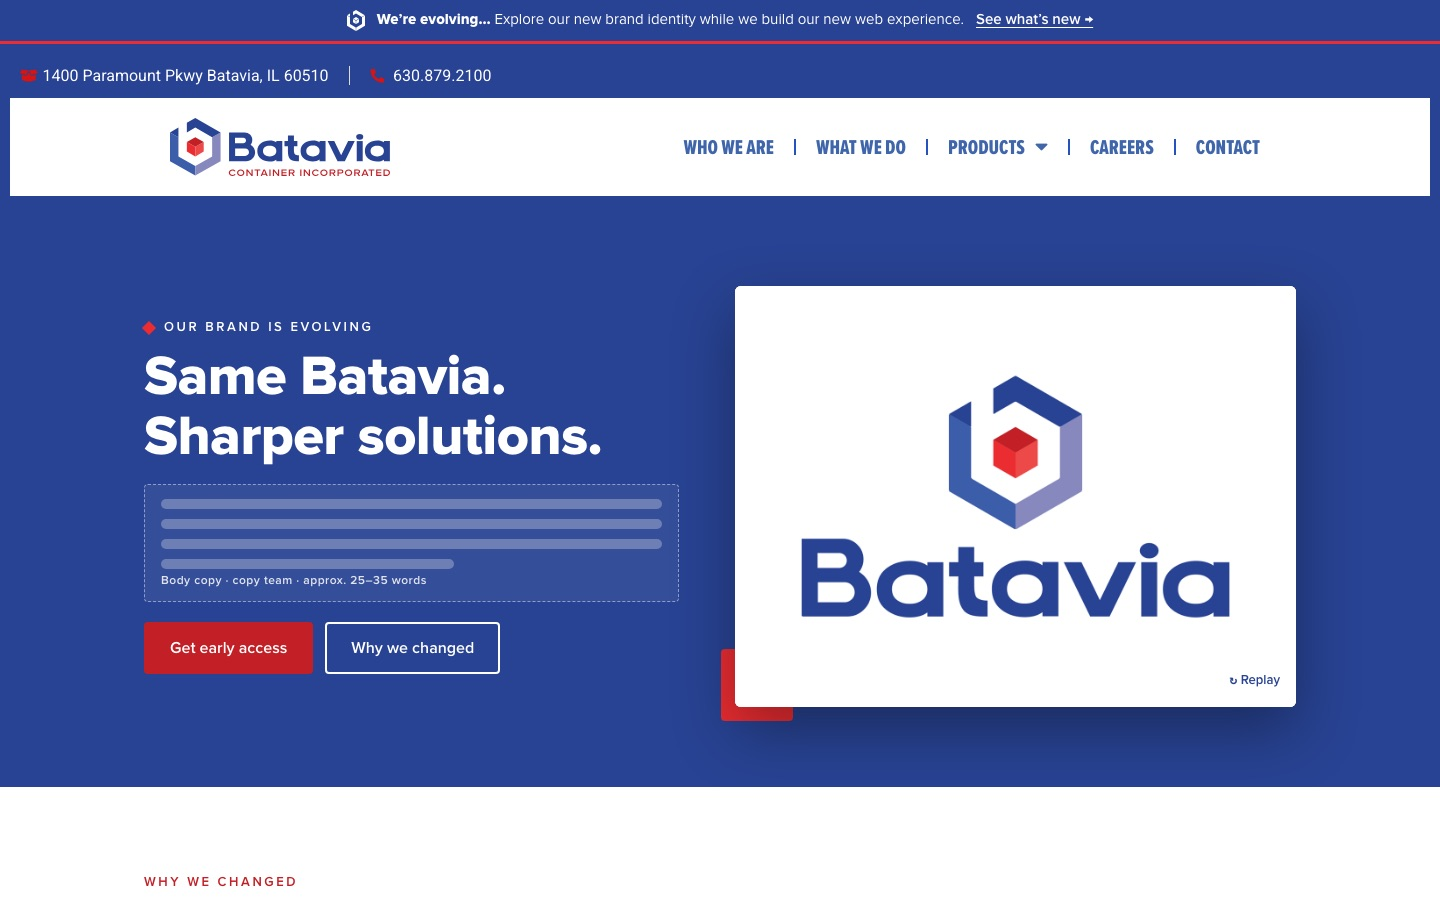
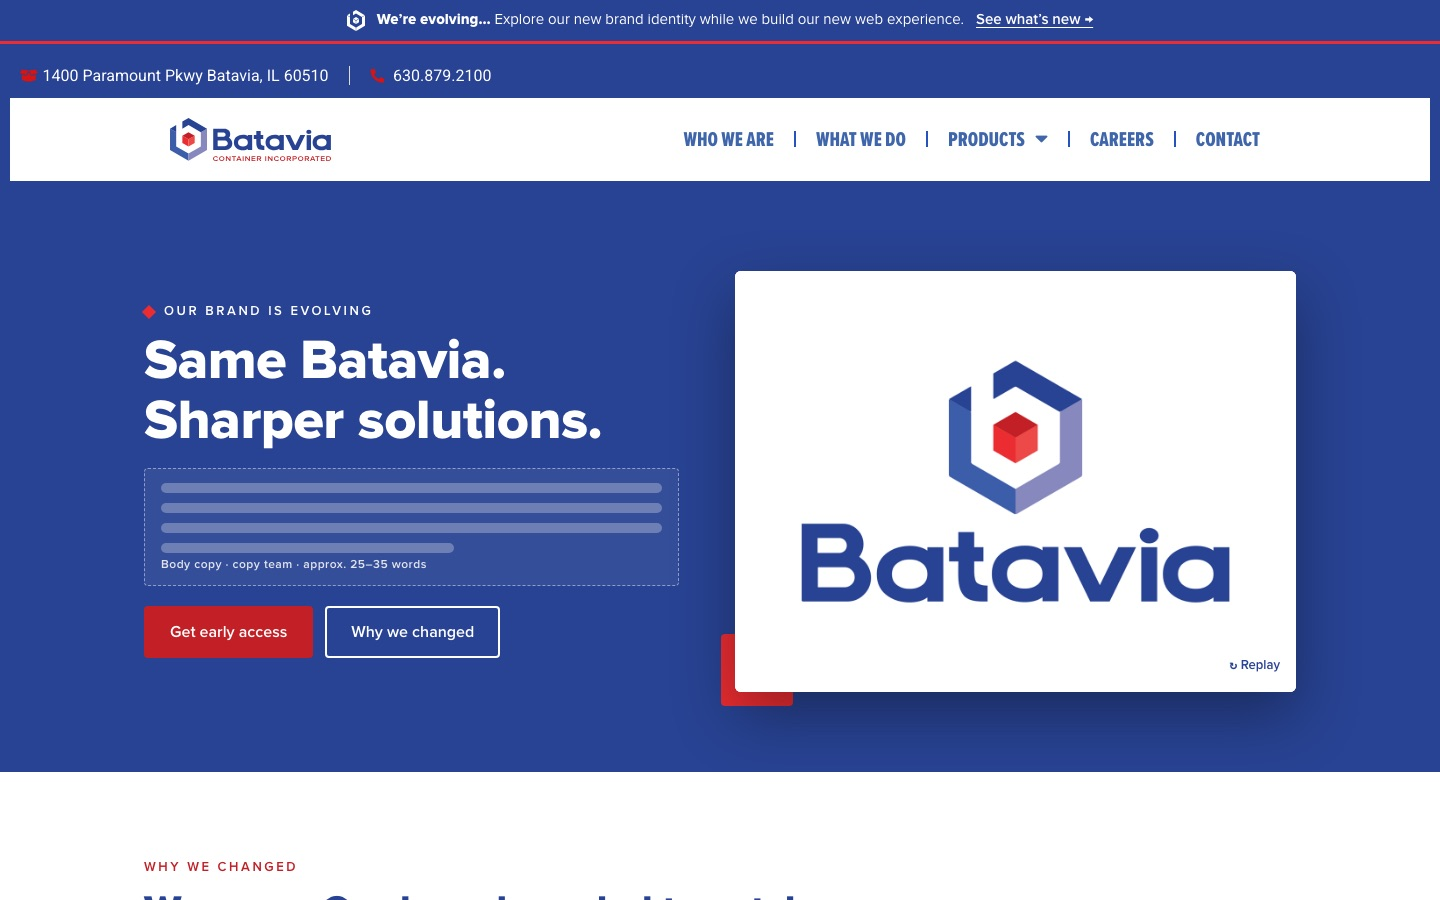
Update review mockups

diff --git a/live/homepage-popup.css b/live/homepage-popup.css
@@ -102,3 +102,24 @@ html.p1-pop-lock { overflow: hidden; }
   .p1-pop__ctas .btn { padding: 12px 16px; min-height: 44px; }
   .p1-pop__later { align-self: center; margin-top: 0; }
 }
+
+/* ---- Phone polish (Nov 2): grab handle instead of the red rule, stronger dim, uncropped logo video ---- */
+@media (max-width: 567px), (max-width: 767px) and (min-height: 521px) {
+  .p1-pop__scrim { background: rgba(14, 22, 54, .62); }
+  .p1-pop__card { border-top: 0; border-radius: 18px 18px 0 0; padding-top: 14px; }
+  .p1-pop__card::before { content: ""; position: absolute; top: 8px; left: 50%; width: 40px; height: 4px; margin-left: -20px; border-radius: 2px; background: #D0D0D0; }
+  .p1-pop__x { top: 10px; right: 8px; }
+  .p1-pop__stage { padding: 6px 0 0; }
+  .p1-pop .morph--video { height: min(25vh, 210px); height: min(25dvh, 210px); width: auto; aspect-ratio: 4/3; margin: 0 auto; }
+  .p1-pop__body h2 { margin: 4px 0 14px; }
+}
+@media (max-width: 567px), (max-width: 767px) and (min-height: 521px) {
+  /* trim the video's 1.5X clear space to the brand-guide minimum of 1X (X = cube width) to save height on phones */
+  .p1-pop .morph--video { height: auto; width: min(76vw, 300px); aspect-ratio: 1600 / 943; }
+  .p1-pop__stage { padding-top: 2px; }
+}
+
+/* No accent rule on the card; the × uses Batavia Red 1 (#C22026, 6:1 on white) */
+.p1-pop__card { border-top: 0; }
+.p1-pop__x { color: var(--red-1); background: rgba(255,255,255,.9); }
+.p1-pop__x:hover, .p1-pop__x:focus-visible { color: #fff; background: var(--red-1); }

diff --git a/live/homepage-option2.html b/live/homepage-option2.html
@@ -760,6 +760,19 @@ var e="script#wp-emoji-settings",t=document.querySelector(e);if(!(t instanceof H
 //# sourceURL=https://www.bataviacontainer.com/wp-includes/js/wp-emoji-loader.min.js
 </script>
 
+<script>
+(function () {
+  function fit() {
+    var hd = document.querySelector('header[data-elementor-type="header"]');
+    var first = document.querySelector('[data-elementor-type="wp-page"] > section');
+    if (!hd || !first) return;
+    first.style.marginTop = '';
+    var below = first.getBoundingClientRect().top - hd.getBoundingClientRect().top;   // > 0 means white shows
+    if (below > 0) first.style.marginTop = (parseFloat(getComputedStyle(first).marginTop) - below) + 'px';
+  }
+  window.addEventListener('load', fit); window.addEventListener('resize', fit);
+})();
+</script>
 <div class="be-page p1-pop" id="p1Pop" hidden>
   <div class="p1-pop__scrim" data-close></div>
   <div class="p1-pop__card" role="dialog" aria-modal="true" aria-labelledby="p1PopTitle">

diff --git a/live/brand-evolution.html b/live/brand-evolution.html
@@ -628,5 +628,18 @@ var e="script#wp-emoji-settings",t=document.querySelector(e);if(!(t instanceof H
 //# sourceURL=https://www.bataviacontainer.com/wp-includes/js/wp-emoji-loader.min.js
 </script>
 
+<script>
+(function () {
+  function fit() {
+    var hd = document.querySelector('header[data-elementor-type="header"]');
+    var first = document.querySelector('[data-elementor-type="wp-page"] > section');
+    if (!hd || !first) return;
+    first.style.marginTop = '';
+    var below = first.getBoundingClientRect().top - hd.getBoundingClientRect().top;   // > 0 means white shows
+    if (below > 0) first.style.marginTop = (parseFloat(getComputedStyle(first).marginTop) - below) + 'px';
+  }
+  window.addEventListener('load', fit); window.addEventListener('resize', fit);
+})();
+</script>
 </body>
 </html>

diff --git a/live/phase1-additions.css b/live/phase1-additions.css
@@ -14,5 +14,8 @@
   .p1-announce__short { display: inline; }
 }
 
-/* Logo swap: the live header shrinks the old logo on small screens; keep the new one at or above the 120px digital minimum */
-img[src*="horizontal-container-incorporated"] { min-width: 150px; max-width: none; }
+/* Logo swap: the new lockup is taller than the old BCI logo. On tablet/phone the live hero slides up exactly 163px
+   under the header, so the logo is sized to keep the header that tall (still above the 120px digital minimum). */
+@media (max-width: 1024px) {
+  img[src*="horizontal-container-incorporated"] { width: 132px !important; min-width: 120px; max-width: none; height: auto !important; }
+}
